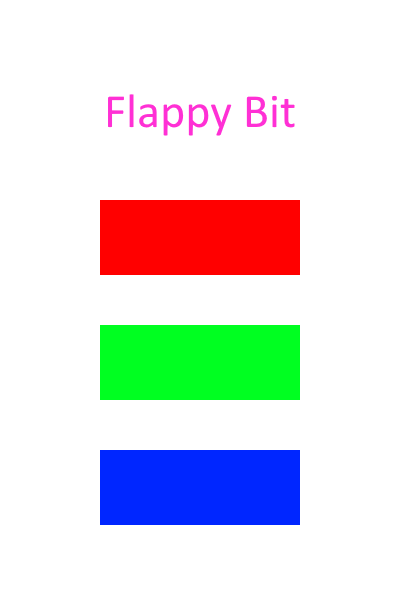
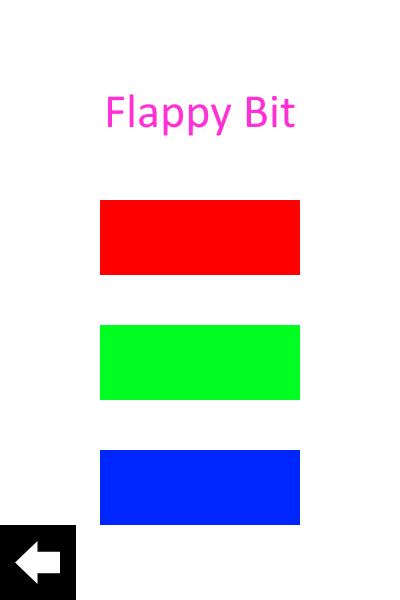
back button

Changed region(s): [[0.0, 0.87, 0.21, 1.0]]

diff --git a/flappybit.java b/flappybit.java
@@ -34,6 +34,7 @@ public class flappybit extends JPanel implements MouseListener{
 
     public void paintComponent(Graphics g){
         if(gameState==0){
+            super.paintComponent(g);
             g.drawImage(mainMenu,0,0,null);
         }
         else if(gameState==1) System.out.println("play");
@@ -87,8 +88,19 @@ public class flappybit extends JPanel implements MouseListener{
             }
         }else if(gameState==2){
             if(mouseX>=100&&mouseX<=300&&mouseY<=275&&mouseY>=200){
-                //clicked play
+                //clicked shootconfirm
                 shootConfirm=!shootConfirm;
+                paintComponent(this.getGraphics());
+            }
+            else if(mouseX>=0&&mouseX<=75&&mouseY<=600&&mouseY>=525){
+                //clicked back
+                gameState=0;
+                paintComponent(this.getGraphics());
+            }
+        }else if(gameState==3){
+            if(mouseX>=0&&mouseX<=75&&mouseY<=600&&mouseY>=525){
+                //clicked back
+                gameState=0;
                 paintComponent(this.getGraphics());
             }
         }
